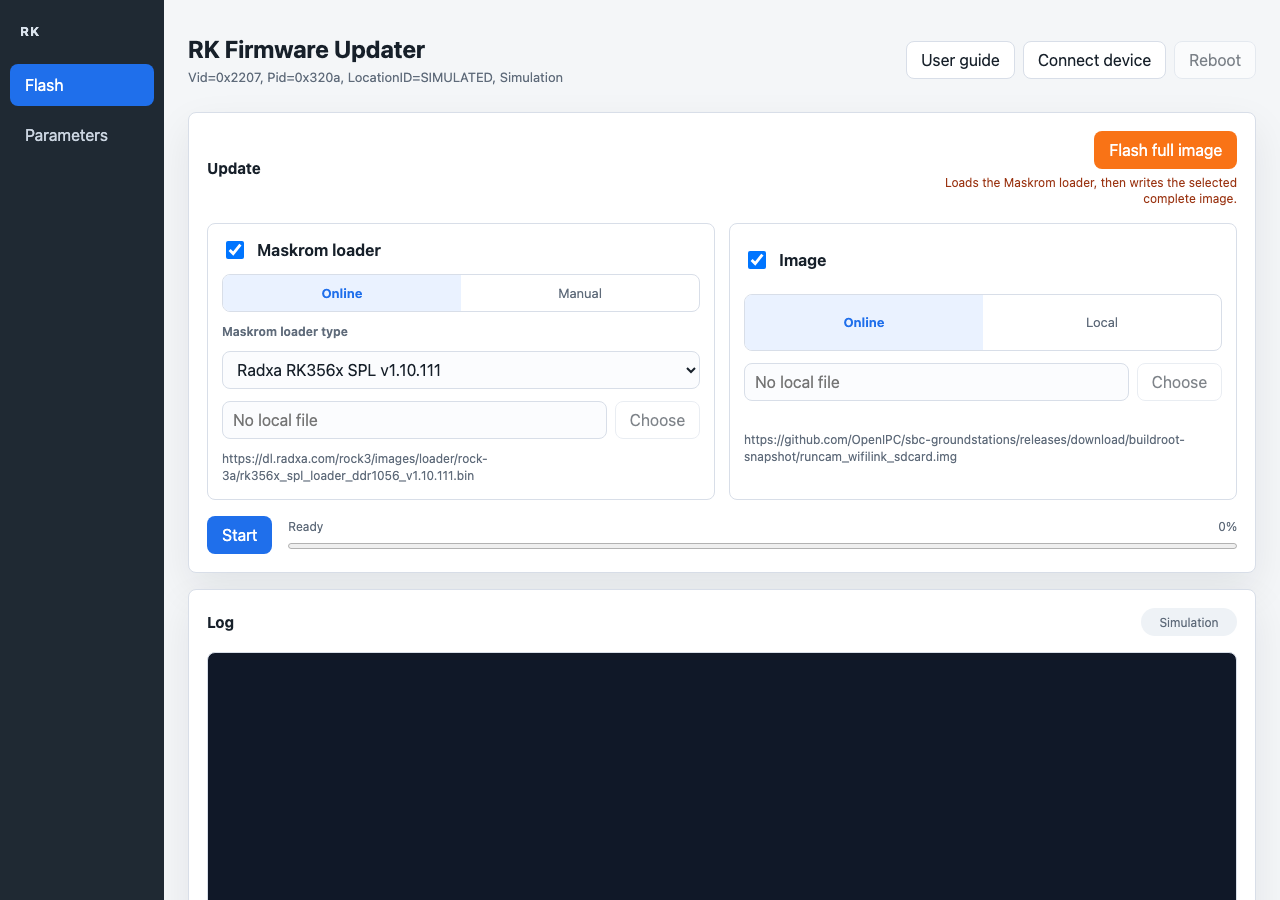
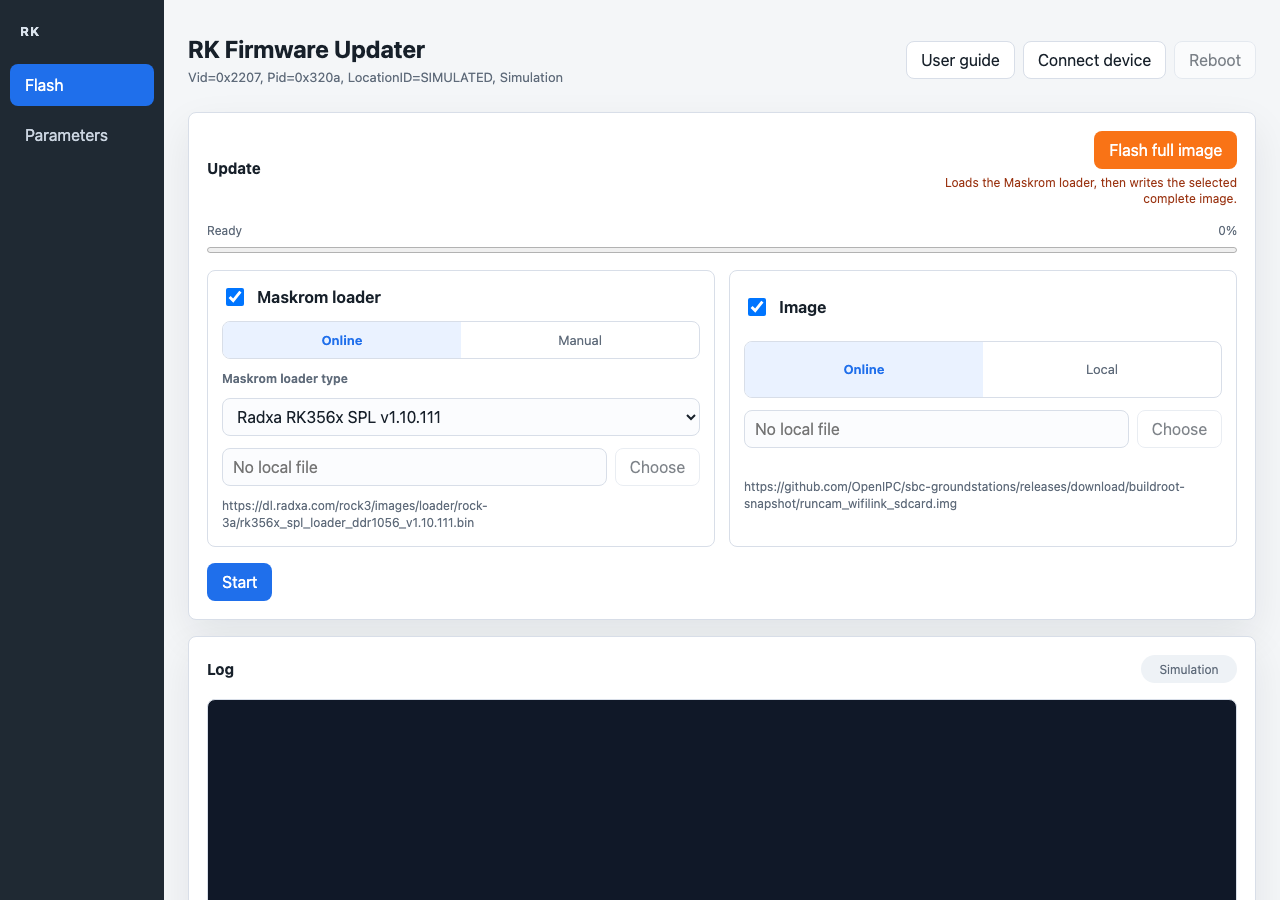
Move progress bar above loader controls

diff --git a/gui/scripts/capture-doc-screenshots.js b/gui/scripts/capture-doc-screenshots.js
@@ -123,6 +123,14 @@ function appBody(options = {}) {
       </div>
     </div>
 
+    <div class="progress-block top-progress">
+      <div class="progress-label">
+        <span id="progressLabel">${progressLabel}</span>
+        <span id="progressValue">${progress}%</span>
+      </div>
+      <progress id="progressBar" value="${progress}" max="100"></progress>
+    </div>
+
     <div class="update-grid">
       <article class="update-card">
         <label class="check-row">
@@ -163,13 +171,6 @@ function appBody(options = {}) {
 
     <div class="action-row">
       <button id="startButton" class="primary" type="button">Start</button>
-      <div class="progress-block">
-        <div class="progress-label">
-          <span id="progressLabel">${progressLabel}</span>
-          <span id="progressValue">${progress}%</span>
-        </div>
-        <progress id="progressBar" value="${progress}" max="100"></progress>
-      </div>
     </div>
   </section>
 

diff --git a/gui/src/index.html b/gui/src/index.html
@@ -43,6 +43,14 @@
               </div>
             </div>
 
+            <div class="progress-block top-progress">
+              <div class="progress-label">
+                <span id="progressLabel">Ready</span>
+                <span id="progressValue">0%</span>
+              </div>
+              <progress id="progressBar" value="0" max="100"></progress>
+            </div>
+
             <div class="update-grid">
               <article class="update-card">
                 <label class="check-row">
@@ -81,13 +89,6 @@
 
             <div class="action-row">
               <button id="startButton" class="primary" type="button">Start</button>
-              <div class="progress-block">
-                <div class="progress-label">
-                  <span id="progressLabel">Ready</span>
-                  <span id="progressValue">0%</span>
-                </div>
-                <progress id="progressBar" value="0" max="100"></progress>
-              </div>
             </div>
           </section>
 

diff --git a/gui/tests/layout.test.js b/gui/tests/layout.test.js
@@ -29,6 +29,19 @@ test('mobile action row stacks controls and keeps buttons accessible', () => {
   assert.match(css, /@media\s*\(max-width:\s*760px\)[\s\S]*button\s*\{[\s\S]*width:\s*100%;/);
 });
 
+test('progress bar is shown above the Maskrom loader card', () => {
+  const progressIndex = html.indexOf('class="progress-block top-progress"');
+  const updateGridIndex = html.indexOf('class="update-grid"');
+  const loaderIndex = html.indexOf('<span>Maskrom loader</span>');
+  const actionRow = html.slice(html.indexOf('class="action-row"'), html.indexOf('</section>', html.indexOf('class="action-row"')));
+
+  assert.ok(progressIndex > 0);
+  assert.ok(progressIndex < updateGridIndex);
+  assert.ok(progressIndex < loaderIndex);
+  assert.doesNotMatch(actionRow, /progressBar/);
+  assert.match(css, /\.top-progress\s*\{[\s\S]*margin-bottom:\s*14px;/);
+});
+
 test('quick full-image button is visually marked as a warning and keeps selected sources', () => {
   assert.match(html, /id="quickUpdateButton"\s+class="warning"/);
   assert.match(css, /\.warning\s*\{[\s\S]*background:\s*var\(--warning\);/);

diff --git a/gui/src/styles.css b/gui/src/styles.css
@@ -353,6 +353,10 @@ button:disabled {
   min-width: 0;
 }
 
+.top-progress {
+  margin-bottom: 14px;
+}
+
 .progress-label {
   display: flex;
   justify-content: space-between;